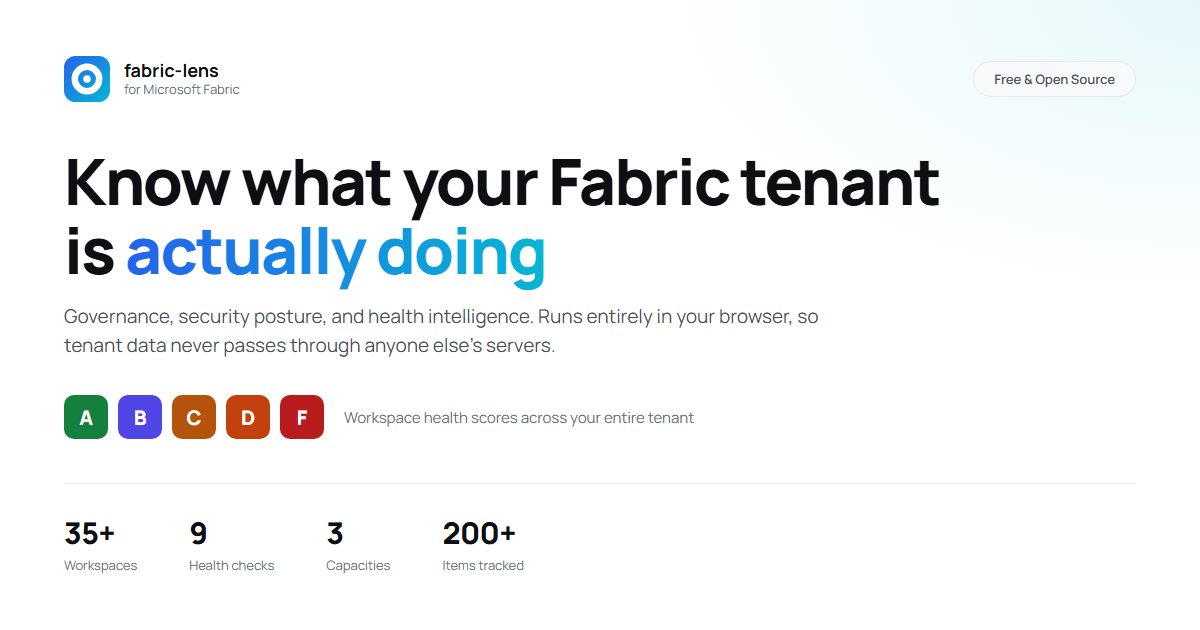
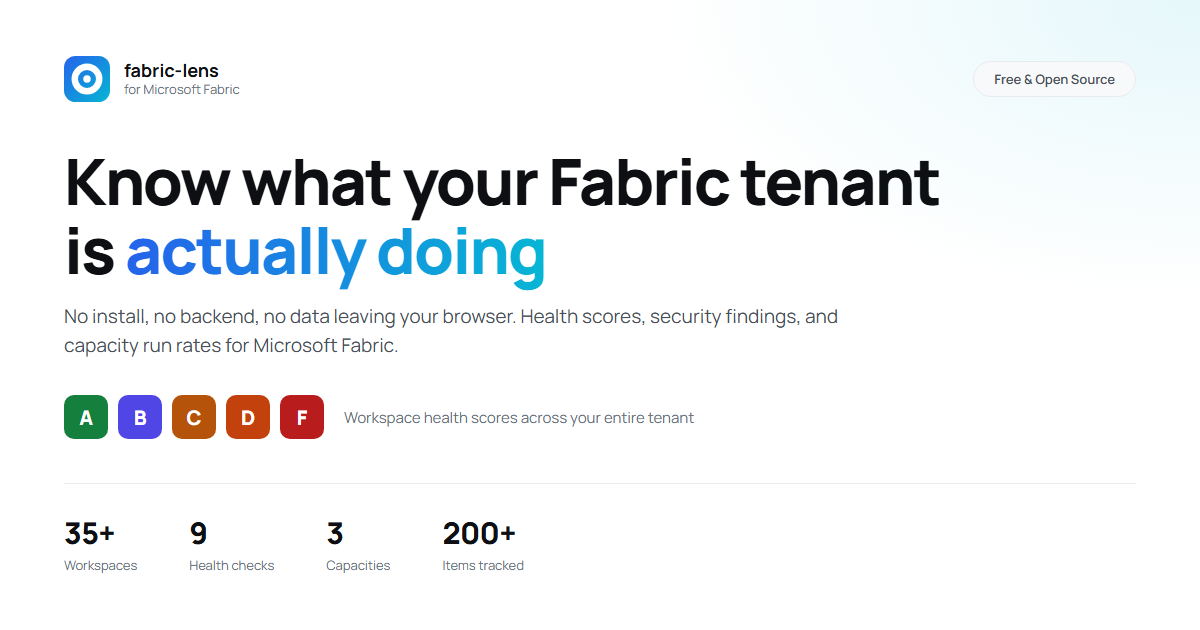
feat(marketing): reposition landing around no-backend (#60)
Hero now leads with the no-install, no-backend, no-data-leaving claim
instead of category nouns. Fourth value prop swaps capacity cost for the
client-ready report, which no other card answered. Step 1 and step 3
reworded to drop phrases the new hero and card had duplicated.

README tagline and the OG card copy follow the same positioning; card
regenerated. The image URL is deliberately not versioned, so platform
caches turn over naturally rather than spending the bust before launch.

Changed region(s): [[0.0308, 0.4825, 0.7092, 0.573]]

diff --git a/src/components/marketing/LandingPage.tsx b/src/components/marketing/LandingPage.tsx
@@ -1,6 +1,6 @@
 import { useMemo } from 'react';
 import { Link, useNavigate } from 'react-router';
-import { ShieldCheck, Activity, Boxes, Gauge } from 'lucide-react';
+import { ShieldCheck, Activity, Boxes, FileText } from 'lucide-react';
 import { useDocumentTitle } from '@/hooks/useDocumentTitle';
 import { HealthGrid } from '@/components/dashboard/HealthGrid';
 import { mockWorkspaces, getMockAllWorkspaceItems } from '@/api/demo';
@@ -24,16 +24,16 @@ const VALUE_PROPS = [
     body: 'Workspaces, items, capacities, and domains in one searchable view, exportable to CSV for the client deck.',
   },
   {
-    icon: Gauge,
-    title: 'Capacity cost',
-    body: 'SKU sizing and utilization against live Azure retail rates, so the capacity conversation starts from a number.',
+    icon: FileText,
+    title: 'Client-ready report',
+    body: 'One printable report with the executive summary, health distribution, findings, exposure, and prioritized recommendations, ready to hand to the tenant owner.',
   },
 ] as const;
 
 const STEPS = [
   {
     title: 'Open it',
-    body: 'No install, no backend, no trial signup. Try the demo tenant first if you want to look before you connect.',
+    body: 'No signup and no trial. The demo tenant runs on sample data, so you can see the whole tool before you connect anything.',
   },
   {
     title: 'Connect your tenant',
@@ -41,7 +41,7 @@ const STEPS = [
   },
   {
     title: 'Read the findings',
-    body: 'Scores, findings, and inventory render in the browser. Export what matters and share the page with the tenant owner.',
+    body: 'Scores, findings, and inventory render in the browser. Export the tables you need, or print the whole report to PDF.',
   },
 ] as const;
 
@@ -128,9 +128,9 @@ export function LandingPage() {
           className="m-enter-up mt-6 max-w-2xl text-lg leading-relaxed text-[var(--m-text-secondary)]"
           style={{ animationDelay: '80ms' }}
         >
-          Governance, security posture, and health intelligence for Microsoft
-          Fabric. It runs entirely in your browser against the Fabric REST APIs,
-          so tenant data never passes through anyone else's servers.
+          No install, no backend, no data leaving your browser. Get health
+          scores, security findings, and capacity run rates across your whole
+          Microsoft Fabric tenant.
         </p>
 
         <div

diff --git a/README.md b/README.md
@@ -1,6 +1,6 @@
 # fabric-lens
 
-**Governance, security posture, and health intelligence for Microsoft Fabric. Runs entirely in your browser.**
+**No install, no backend, no data leaving your browser. Health scores, security findings, and capacity run rates for Microsoft Fabric.**
 
 [![Try the live demo](https://img.shields.io/badge/Try%20the%20live%20demo-2563EB?style=for-the-badge)](https://fabric-lens.com)
 
